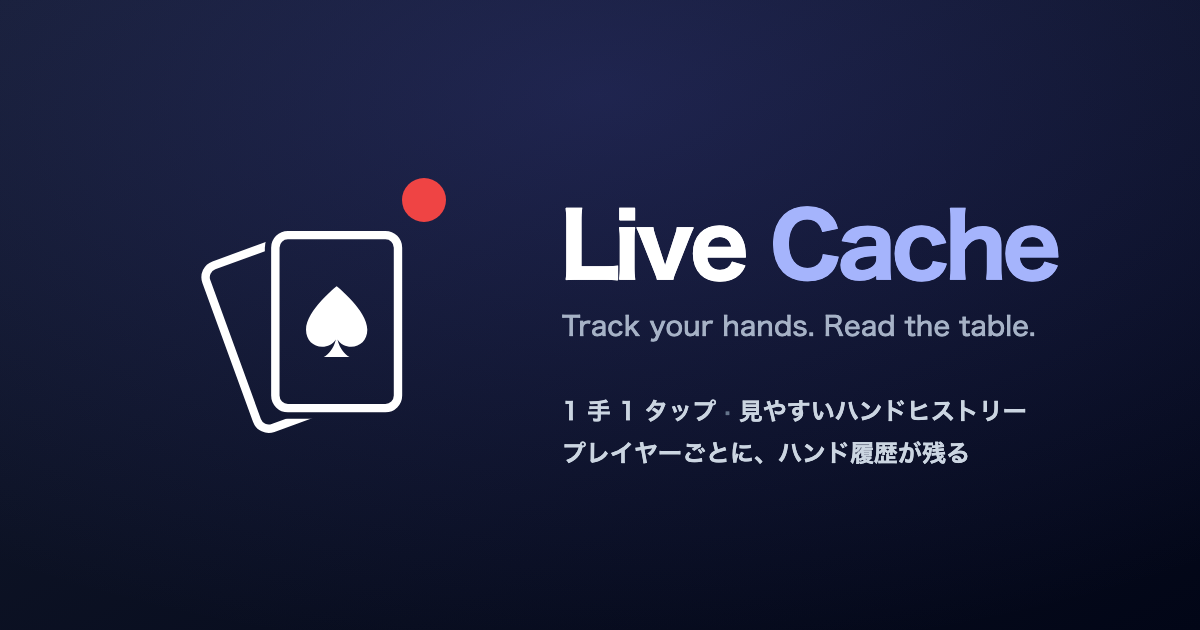
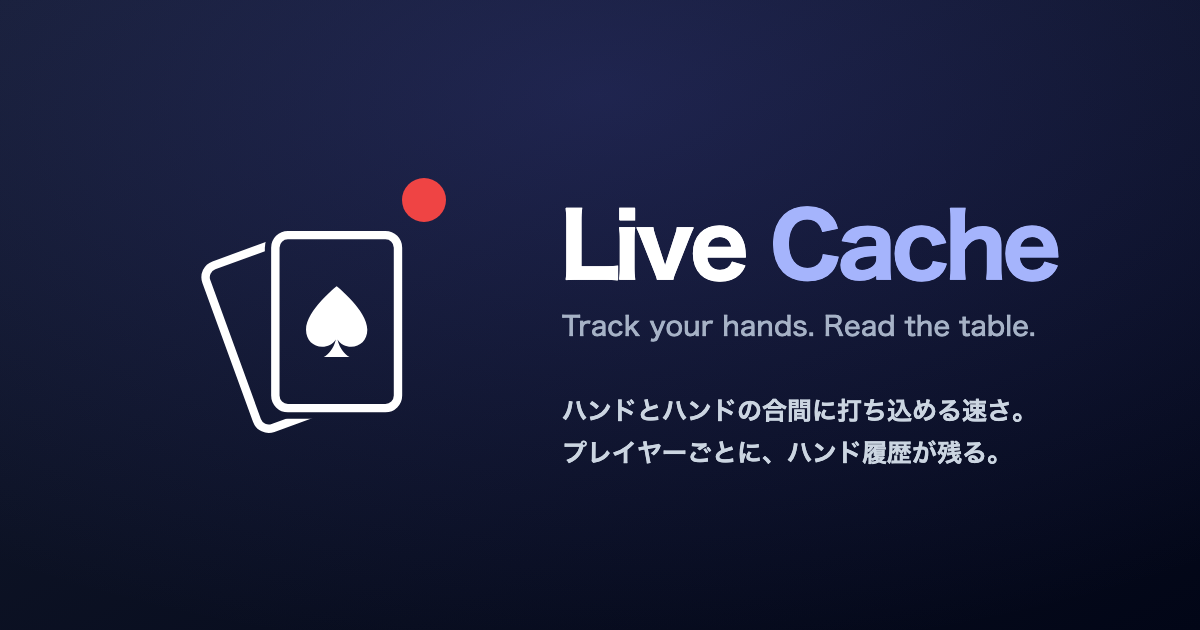
スマホで 2 枚目以降のスクショが出ない対策と、リンクプレビューの文言更新
- iOS Safari 対策で loading=lazy を全廃（合計 1.5MB なら即読みで問題ない）
- 説明文・OG 画像をヒーローと同じ「ハンドとハンドの合間に打ち込める速さ。
  プレイヤーごとに、ハンド履歴が残る。」に統一
- og:image に ?v=2 を付けて SNS 側のキャッシュを更新させる

Changed region(s): [[0.4625, 0.6333, 0.8633, 0.754]]

diff --git a/index.html b/index.html
@@ -4,7 +4,7 @@
 <meta charset="utf-8">
 <meta name="viewport" content="width=device-width, initial-scale=1">
 <title>LiveCache — ライブポーカーのハンドと対戦相手を記録する</title>
-<meta name="description" content="ライブポーカーのハンドと対戦相手を記録する iOS アプリ。ハンドの合間に 1 手 1 タップで打ち込んで、見やすいハンドヒストリーに。プレイヤーごとのハンド履歴やタグも残せます。記録はすべて端末内に保存されます。">
+<meta name="description" content="ライブポーカーのハンドと対戦相手を記録する iOS アプリ。ハンドとハンドの合間に打ち込める速さ。プレイヤーごとに、ハンド履歴が残る。記録はすべて端末内に保存されます。">
 <link rel="canonical" href="https://yutybass.github.io/livecache-site/">
 <link rel="icon" href="./img/icon.svg">
 <link rel="apple-touch-icon" href="./img/icon.svg">
@@ -15,15 +15,15 @@
 <meta property="og:locale" content="ja_JP">
 <meta property="og:url" content="https://yutybass.github.io/livecache-site/">
 <meta property="og:title" content="LiveCache — ライブポーカーのハンドと対戦相手を記録する">
-<meta property="og:description" content="ライブポーカーのハンドと対戦相手を記録する iOS アプリ。ハンドの合間に 1 手 1 タップで打ち込んで、見やすいハンドヒストリーに。プレイヤーごとのハンド履歴やタグも残せます。記録はすべて端末内に保存されます。">
-<meta property="og:image" content="https://yutybass.github.io/livecache-site/img/og.png">
+<meta property="og:description" content="ライブポーカーのハンドと対戦相手を記録する iOS アプリ。ハンドとハンドの合間に打ち込める速さ。プレイヤーごとに、ハンド履歴が残る。記録はすべて端末内に保存されます。">
+<meta property="og:image" content="https://yutybass.github.io/livecache-site/img/og.png?v=2">
 <meta property="og:image:width" content="1200">
 <meta property="og:image:height" content="630">
 <meta property="og:image:alt" content="LiveCache — Track your hands. Read the table.">
 <meta name="twitter:card" content="summary_large_image">
 <meta name="twitter:title" content="LiveCache — ライブポーカーのハンドと対戦相手を記録する">
-<meta name="twitter:description" content="ライブポーカーのハンドと対戦相手を記録する iOS アプリ。ハンドの合間に 1 手 1 タップで打ち込んで、見やすいハンドヒストリーに。プレイヤーごとのハンド履歴やタグも残せます。記録はすべて端末内に保存されます。">
-<meta name="twitter:image" content="https://yutybass.github.io/livecache-site/img/og.png">
+<meta name="twitter:description" content="ライブポーカーのハンドと対戦相手を記録する iOS アプリ。ハンドとハンドの合間に打ち込める速さ。プレイヤーごとに、ハンド履歴が残る。記録はすべて端末内に保存されます。">
+<meta name="twitter:image" content="https://yutybass.github.io/livecache-site/img/og.png?v=2">
 
 <meta name="theme-color" content="#06090F">
 
@@ -37,8 +37,8 @@
   "operatingSystem": "iOS",
   "inLanguage": "ja",
   "url": "https://yutybass.github.io/livecache-site/",
-  "image": "https://yutybass.github.io/livecache-site/img/og.png",
-  "description": "ライブポーカーのハンドと対戦相手を記録する iOS アプリ。ハンドの合間に 1 手 1 タップで打ち込んで、見やすいハンドヒストリーに。プレイヤーごとのハンド履歴やタグも残せます。記録はすべて端末内に保存されます。",
+  "image": "https://yutybass.github.io/livecache-site/img/og.png?v=2",
+  "description": "ライブポーカーのハンドと対戦相手を記録する iOS アプリ。ハンドとハンドの合間に打ち込める速さ。プレイヤーごとに、ハンド履歴が残る。記録はすべて端末内に保存されます。",
   "offers": { "@type": "Offer", "price": "0", "priceCurrency": "JPY" },
   "author": { "@type": "Person", "name": "YUTO YOSHIDA" }
 }
@@ -906,7 +906,7 @@
       <div>
         <div class="phone">
           <div class="phone-inner">
-            <img class="shot" style="margin-top:0" loading="lazy" decoding="async" alt="ハンド入力の実際の画面。リバーで BB（プレイヤーA）の席が光り、額の欄に 16、テンキーの右にポットの 33%・50%・75%・125% のプリセットが並ぶ" src="./img/shot-input.png" />
+            <img class="shot" style="margin-top:0" decoding="async" alt="ハンド入力の実際の画面。リバーで BB（プレイヤーA）の席が光り、額の欄に 16、テンキーの右にポットの 33%・50%・75%・125% のプリセットが並ぶ" src="./img/shot-input.png" />
           </div>
         </div>
         <p class="caption">ハンド入力 — 額はプリセットかテンキーで（実際の画面）</p>
@@ -936,7 +936,7 @@
       <div>
         <div class="phone">
           <div class="phone-inner shotcrop">
-            <img class="shot" loading="lazy" decoding="async" alt="ハンド詳細の実際の画面。9 人卓の中央に BB WIN・Full House・+354 (118.0bb)、下にストリートごとのアクション履歴" src="./img/shot-replay.png" />
+            <img class="shot" decoding="async" alt="ハンド詳細の実際の画面。9 人卓の中央に BB WIN・Full House・+354 (118.0bb)、下にストリートごとのアクション履歴" src="./img/shot-replay.png" />
           </div>
         </div>
         <p class="caption">ハンド詳細 — Full House で +118.0bb。下に 1 手ずつの履歴（実際の画面）</p>
@@ -966,7 +966,7 @@
       <div>
         <div class="phone">
           <div class="phone-inner shotcrop">
-            <img class="shot" loading="lazy" decoding="async" alt="ハンド一覧の実際の画面。検索と絞り込みの札の下に、収支 −2.0bb / +118.0bb / +2.3bb の 3 行が並ぶ" src="./img/shot-hands.png" />
+            <img class="shot" decoding="async" alt="ハンド一覧の実際の画面。検索と絞り込みの札の下に、収支 −2.0bb / +118.0bb / +2.3bb の 3 行が並ぶ" src="./img/shot-hands.png" />
           </div>
         </div>
         <p class="caption">ハンド一覧 — 「自分のハンド」「SRP」で絞り込み中（実際の画面）</p>
@@ -996,7 +996,7 @@
       <div>
         <div class="phone">
           <div class="phone-inner shotcrop">
-            <img class="shot" loading="lazy" decoding="async" alt="プレイヤー詳細の実際の画面。プレイヤーA にタグが 3 つ付き、その人のハンドが 2 件、−117.7bb と −2.0bb の収支つきで並ぶ" src="./img/shot-player.png" />
+            <img class="shot" decoding="async" alt="プレイヤー詳細の実際の画面。プレイヤーA にタグが 3 つ付き、その人のハンドが 2 件、−117.7bb と −2.0bb の収支つきで並ぶ" src="./img/shot-player.png" />
           </div>
         </div>
         <p class="caption">プレイヤー詳細 — タグ・メモと、この人のハンド（実際の画面）</p>
@@ -1026,7 +1026,7 @@
       <div>
         <div class="phone">
           <div class="phone-inner shotcrop">
-            <img class="shot" style="margin-top:-14.3%" loading="lazy" decoding="async" alt="プレイヤー一覧の実際の画面。★ のみで絞り込んだプレイヤーA〜D に、ルースアグレ・タフコール・good reg など色分けされたタグが 3 つずつ付く" src="./img/shot-tags.png" />
+            <img class="shot" style="margin-top:-14.3%" decoding="async" alt="プレイヤー一覧の実際の画面。★ のみで絞り込んだプレイヤーA〜D に、ルースアグレ・タフコール・good reg など色分けされたタグが 3 つずつ付く" src="./img/shot-tags.png" />
           </div>
         </div>
         <p class="caption">プレイヤー一覧 — タグで人となりが一目で分かる（実際の画面）</p>
